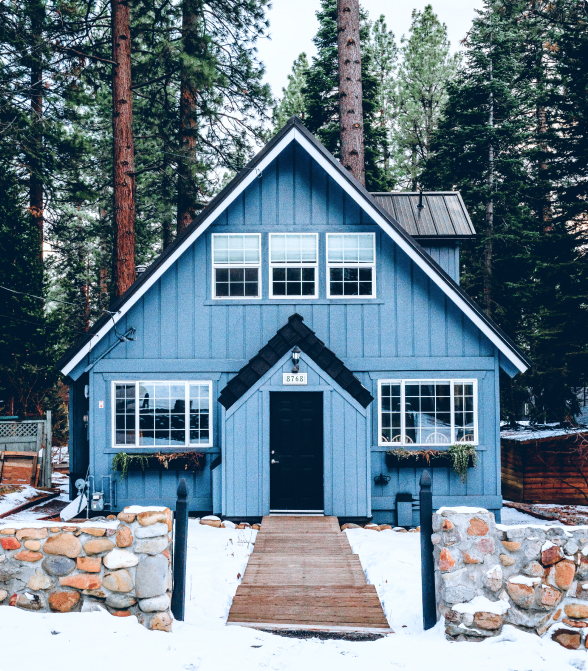
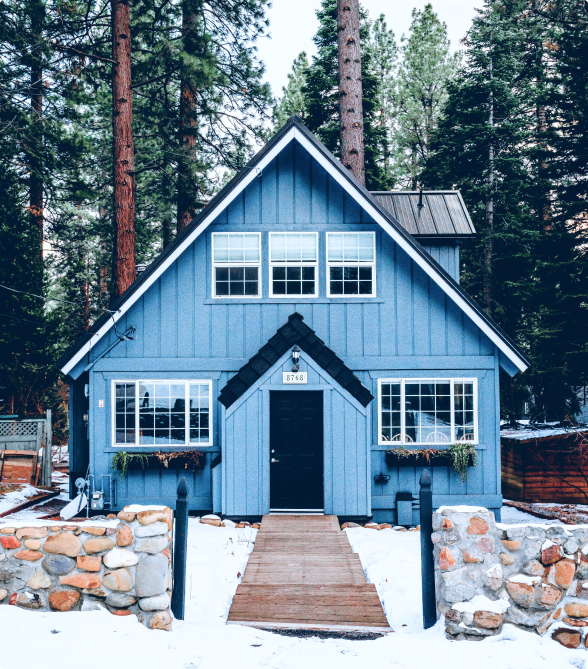
заменены изображения на более качественные; изменена картинка и ее маска в блоке first

diff --git a/index.html b/index.html
@@ -36,27 +36,7 @@
                 <a href="#" class="button__link">Бронирование</a>
               </div>
             </div>
-            <img
-              src="./images/first-house.jpg"
-              class="article__img first__img"
-              alt="Загородный дом"
-            />
-            <svg width="0" height="0" style="position: absolute">
-              <defs>
-                <clippath id="path">
-                  <rect rx="4" height="588" width="180" fill="#fff" />
-                  <rect
-                    rx="4"
-                    height="588"
-                    width="180"
-                    y="81"
-                    x="204"
-                    fill="#fff"
-                  />
-                  <rect rx="4" height="588" width="180" x="408" fill="#fff" />
-                </clippath>
-              </defs>
-            </svg>
+            <div class="first__img"></div>
           </article>
         </section>
         <section class="about">
@@ -77,7 +57,7 @@
               </div>
             </div>
             <img
-              src="./images/about-house.jpg"
+              src="./images/about-house.png"
               class="article__img"
               alt="Дом в норвежском стиле"
             />
@@ -89,16 +69,15 @@
               <h2 class="article__heading">Активности</h2>
               <p class="article__paragraph">
                 К&nbsp;вашим услугам наши прекрасные повора, которые приготовят
-                вкусную еду по&nbsp;составленную для вас персональному
-                меню.<br>Также вы&nbsp;сможете воспользоваться СПА, тренажерным
-                залом и&nbsp;прочими услугами, доступными на&nbsp;нашей
-                территории.
+                вкусную еду по&nbsp;составленную для вас персональному меню.<br />Также
+                вы&nbsp;сможете воспользоваться СПА, тренажерным залом
+                и&nbsp;прочими услугами, доступными на&nbsp;нашей территории.
               </p>
             </div>
             <img
-              src="./images/benefit-glasses.jpg"
-              class="article__img"
-              alt="Дом в норвежском стиле"
+              src="./images/benefit-glasses.png"
+              class="article__img benefit__img"
+              alt="Ужин"
             />
           </article>
           <article class="article article_img-first">
@@ -110,19 +89,40 @@
               </p>
             </div>
             <img
-              src="./images/benefit-meal.jpg"
-              class="article__img"
-              alt="Дом в норвежском стиле"
+              src="./images/benefit-meal.png"
+              class="article__img benefit__img"
+              alt="Вегатарианское блюдо"
             />
           </article>
         </section>
         <section class="interiors">
           <h2 class="section-title">Наши интерьеры</h2>
           <div class="galary">
-            <input type="radio" id="radio1" name="galary__radio" class="galary__radio" checked>
-            <input type="radio" id="radio2" name="galary__radio" class="galary__radio">
-            <input type="radio" id="radio3" name="galary__radio" class="galary__radio">
-            <input type="radio" id="radio4" name="galary__radio" class="galary__radio">
+            <input
+              type="radio"
+              id="radio1"
+              name="galary__radio"
+              class="galary__radio"
+              checked
+            />
+            <input
+              type="radio"
+              id="radio2"
+              name="galary__radio"
+              class="galary__radio"
+            />
+            <input
+              type="radio"
+              id="radio3"
+              name="galary__radio"
+              class="galary__radio"
+            />
+            <input
+              type="radio"
+              id="radio4"
+              name="galary__radio"
+              class="galary__radio"
+            />
             <ul class="galary__controls">
               <li class="galary__control-item">
                 <label for="radio1" class="galary__label">
@@ -146,7 +146,7 @@
               </li>
             </ul>
             <ul class="galary__items">
-              <li class="galary__item "></li>
+              <li class="galary__item"></li>
               <li class="galary__item"></li>
               <li class="galary__item"></li>
               <li class="galary__item"></li>
@@ -174,8 +174,8 @@
                 Уютный коттедж с тремя&nbsp;спальнями и&nbsp;бильярдом.
               </p>
               <a href="#" class="card__link"
-                >Подробнее <span class="card__link-arrow">&rarr;</span
-              ></a>
+                >Подробнее <span class="card__link-arrow">&rarr;</span></a
+              >
             </li>
             <li class="card">
               <img
@@ -189,8 +189,8 @@
                 и&nbsp;бильярдом.
               </p>
               <a href="#" class="card__link"
-                >Подробнее <span class="card__link-arrow">&rarr;</span
-              ></a>
+                >Подробнее <span class="card__link-arrow">&rarr;</span></a
+              >
             </li>
             <li class="card">
               <img
@@ -204,8 +204,8 @@
                 Идеально подойдет для полноценного празднования нового года.
               </p>
               <a href="#" class="card__link"
-                >Подробнее <span class="card__link-arrow">&rarr;</span
-              ></a>
+                >Подробнее <span class="card__link-arrow">&rarr;</span></a
+              >
             </li>
           </ul>
         </section>

diff --git a/pages/index.css b/pages/index.css
@@ -4,31 +4,43 @@
 @import url(../vendor/fonts/Montserrat/Montserrat.css);
 
 @import url(../blocks/page/page.css);
-@import url(../blocks/header/header.css);
-@import url(../blocks/logo/logo.css);
-@import url(../blocks/header/__logo/header__logo.css);
-@import url(../blocks/div/div.css);
-@import url(../blocks/header/__links/header__links.css);
-@import url(../blocks/header/__link/header__link.css);
-@import url(../blocks/button/button.css);
-@import url(../blocks/header/__button/header__button.css);
-@import url(../blocks/button/__link/button__link.css);
-@import url(../blocks/main/main.css);
-@import url(../blocks/first/first.css);
+
 @import url(../blocks/article/article.css);
-@import url(../blocks/first/__article/first__article.css);
 @import url(../blocks/article/__text/article__text.css);
 @import url(../blocks/article/__heading/article__heading.css);
-@import url(../blocks/first/__heading/first__heading.css);
 @import url(../blocks/article/__paragraph/article__paragraph.css);
-@import url(../blocks/first/__paragraph/first__paragraph.css);
 @import url(../blocks/article/__img/article__img.css);
-@import url(../blocks/first/__img/first__img.css);
-@import url(../blocks/about/about.css);
 @import url(../blocks/article/_img-first/article_img-first.css);
-@import url(../blocks/benefit/benefit.css);
-@import url(../blocks/interiors/interiors.css);
+
 @import url(../blocks/section-title/section-title.css);
+@import url(../blocks/section-subtitle/section-subtitle.css);
+
+@import url(../blocks/logo/logo.css);
+
+@import url(../blocks/button/button.css);
+@import url(../blocks/button/__link/button__link.css);
+
+@import url(../blocks/header/header.css);
+@import url(../blocks/header/__logo/header__logo.css);
+@import url(../blocks/header/__links/header__links.css);
+@import url(../blocks/header/__link/header__link.css);
+@import url(../blocks/header/__button/header__button.css);
+
+@import url(../blocks/main/main.css);
+
+@import url(../blocks/first/first.css);
+@import url(../blocks/first/__article/first__article.css);
+@import url(../blocks/first/__heading/first__heading.css);
+@import url(../blocks/first/__paragraph/first__paragraph.css);
+@import url(../blocks/first/__img/first__img.css);
+
+@import url(../blocks/about/about.css);
+
+@import url(../blocks/benefit/benefit.css);
+@import url(../blocks/benefit/__img/benefit__img.css);
+
+@import url(../blocks/interiors/interiors.css);
+
 @import url(../blocks/galary/galary.css);
 @import url(../blocks/galary/__radio/galary__radio.css);
 @import url(../blocks/galary/__items/galary__items.css);
@@ -36,9 +48,10 @@
 @import url(../blocks/galary/__controls/galary__controls.css);
 @import url(../blocks/galary/__label/galary__label.css);
 @import url(../blocks/galary/__pseudo-item/galary__pseudo-item.css);
+
 @import url(../blocks/reservation/reservation.css);
-@import url(../blocks/section-subtitle/section-subtitle.css);
 @import url(../blocks/reservation/__button/reservation__button.css);
+
 @import url(../blocks/cards/cards.css);
 @import url(../blocks/card/card.css);
 @import url(../blocks/card/__img/card__img.css);
@@ -46,6 +59,7 @@
 @import url(../blocks/card/__paragraph/card__paragraph.css);
 @import url(../blocks/card/__link/card__link.css);
 @import url(../blocks/card/__link-arrow/card__link-arrow.css);
+
 @import url(../blocks/reviews/reviews.css);
 @import url(../blocks/feedback/feedback.css);
 @import url(../blocks/feedbacks/__items/feedbacks__items.css);
@@ -57,6 +71,7 @@
 @import url(../blocks/feedback/__label/feedback__label.css);
 @import url(../blocks/feedback/__radio/feedback__radio.css);
 @import url(../blocks/feedback/__pseudo-item/feedback__pseudo-item.css);
+
 @import url(../blocks/footer/footer.css);
 @import url(../blocks/footer/__logo-column/footer__logo-column.css);
 @import url(../blocks/footer/__logo/footer__logo.css);

diff --git a/blocks/first/__img/first__img.css b/blocks/first/__img/first__img.css
@@ -1,4 +1,8 @@
 .first__img {
-  max-width: 588px;
-  clip-path: url(#path);
+  width: 100%;
+  max-width: 587px;
+  height: 668px;
+  border-radius: 4px;
+  background-position: center;
+  background-image: url(../../../images/mask.svg), url(../../../images/first-house.jpg);
 }

diff --git a/blocks/article/__img/article__img.css b/blocks/article/__img/article__img.css
@@ -1,5 +1,5 @@
 .article__img {
   max-width: 384px;
   width: 100%;
-  object-fit: fill;
+  object-fit: cover;
 }

diff --git a/blocks/benefit/__img/benefit__img.css b/blocks/benefit/__img/benefit__img.css
@@ -1,0 +1,4 @@
+.benefit__img {
+  max-height: 384px;
+  object-position: bottom;
+}
